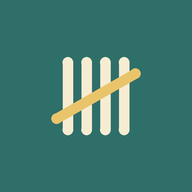
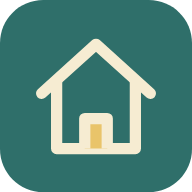
Eigenes Symbol: Häuschen in Creme mit Tür in Senf auf Petrol (ersetzt Strichbündel)

diff --git a/app/static/index.html b/app/static/index.html
@@ -12,14 +12,14 @@
 <meta name="robots" content="noindex, nofollow">
 <title>Hüsli</title>
 <link rel="manifest" href="/familie/manifest.webmanifest">
-<link rel="icon" href="/familie/icon.svg" type="image/svg+xml">
-<link rel="apple-touch-icon" href="/familie/icon-180.png">
-<link rel="stylesheet" href="/familie/style.css?v=6">
+<link rel="icon" href="/familie/icon.svg?v=7" type="image/svg+xml">
+<link rel="apple-touch-icon" href="/familie/icon-180.png?v=7">
+<link rel="stylesheet" href="/familie/style.css?v=7">
 <script src="/familie/thema.js"></script>
-<script src="/familie/kern.js?v=6" defer></script>
-<script src="/familie/ansichten1.js?v=6" defer></script>
-<script src="/familie/ansichten2.js?v=6" defer></script>
-<script src="/familie/ansichten3.js?v=6" defer></script>
+<script src="/familie/kern.js?v=7" defer></script>
+<script src="/familie/ansichten1.js?v=7" defer></script>
+<script src="/familie/ansichten2.js?v=7" defer></script>
+<script src="/familie/ansichten3.js?v=7" defer></script>
 </head>
 <body>
 <div id="app"><div class="anmeldung"><div class="leise">Hüsli lädt …</div></div></div>
